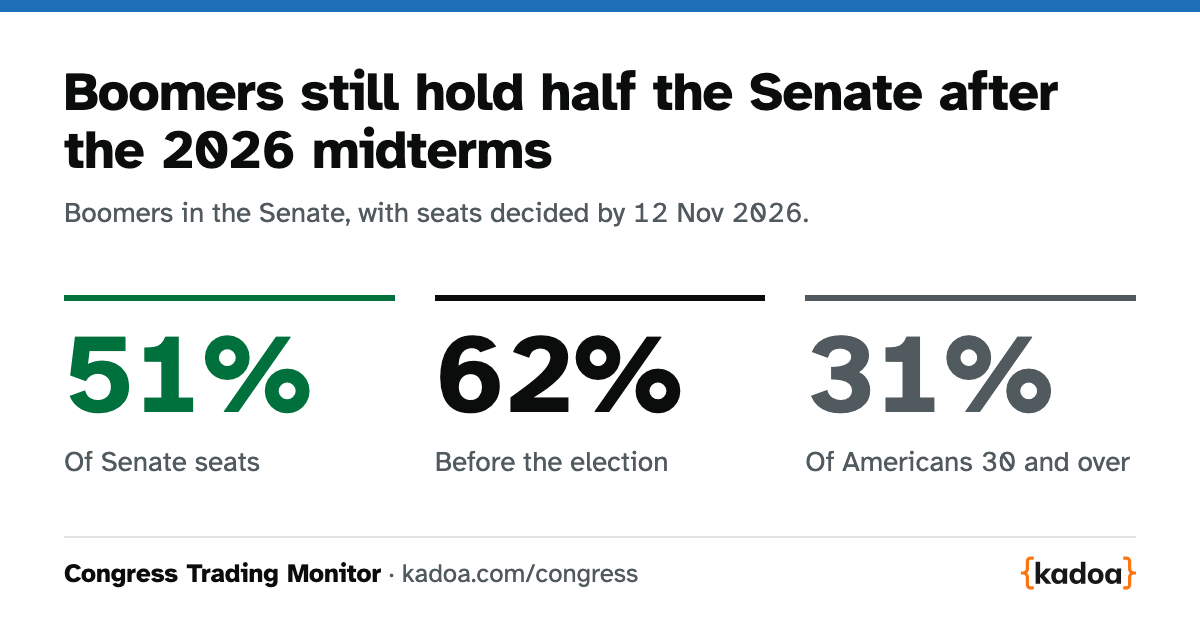
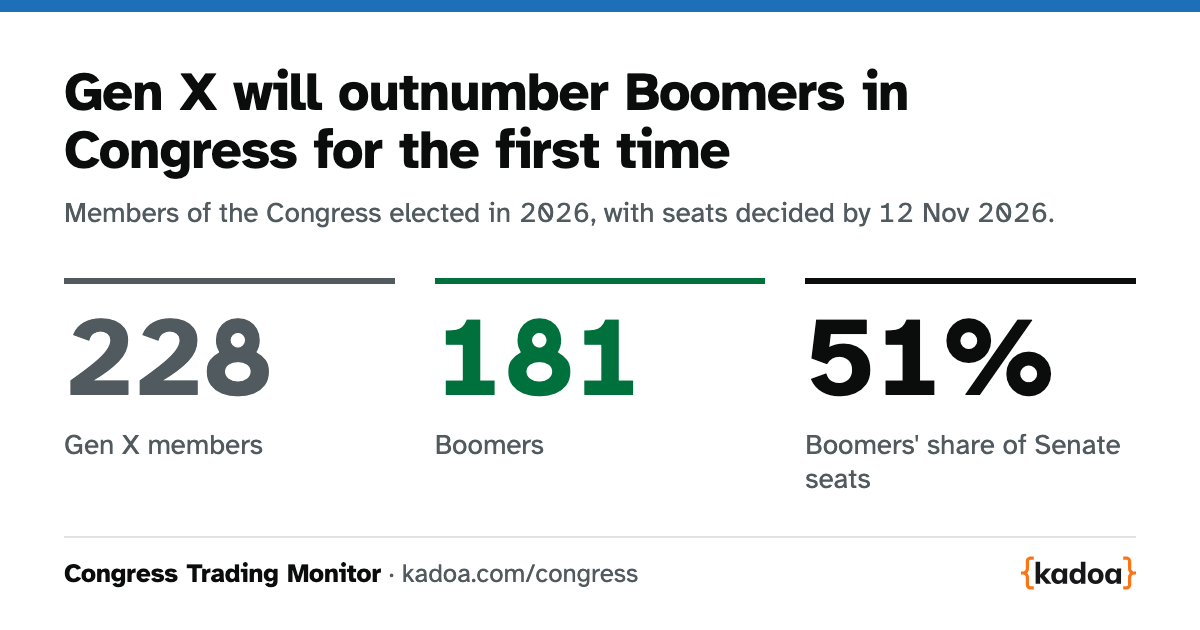
generations insight: every Congress since 1945 by chamber, the new Congress by party, and the Gen X finding as the title

diff --git a/src/components/CongressGenerations.jsx b/src/components/CongressGenerations.jsx
@@ -1,3 +1,4 @@
+import { useLayoutEffect, useRef, useState } from "react";
 import data from "../static/congress-generations.json";
 import { ChartCard, DataTable } from "../kit";
 import { ExtLink } from "../ui";
@@ -10,6 +11,11 @@ const MONTHS = ["Jan", "Feb", "Mar", "Apr", "May", "Jun", "Jul", "Aug", "Sep", "
 const day = (s) => { const d = new Date(`${s}T00:00:00Z`); return `${d.getUTCDate()} ${MONTHS[d.getUTCMonth()]} ${d.getUTCFullYear()}`; };
 // One colour per generation: the seats bar solid, the people bar the same colour at a third of its strength.
 const COLOUR = { Silent: "#6f777b", Boomers: "#009E73", "Gen X": "#CC79A7", Millennials: "#D55E00", "Gen Z": "#0072B2" };
+// The generations that have left Congress, in lighter greys, oldest lightest.
+const PAST = { "Before 1883": "#d3d6d9", Lost: "#b9bec2", Greatest: "#9aa1a6" };
+// Darker shades of the line colours for the names, which need more contrast on white than a line does.
+const TEXT = { Silent: "#505a5f", Boomers: "#007a59", "Gen X": "#a8507f", Millennials: "#b34f00", "Gen Z": "#005a8c" };
+const LIVING = Object.keys(COLOUR);
 // The longest bar is two thirds of the track, so a share of 65% fills it.
 const MAX = 65;
 const pct = (v) => (v > 0 && v < 0.5 ? "<1%" : `${Math.round(v)}%`);
@@ -55,18 +61,95 @@ function Chamber({ ch }) {
   );
 }
 
+// Each generation's share of a chamber in every Congress since 1945, one line a generation, named at its peak.
+function GenHistory({ name, share, years }) {
+  const ref = useRef(null);
+  const [w, setW] = useState(880);
+  useLayoutEffect(() => {
+    if (!ref.current) return undefined;
+    setW(ref.current.getBoundingClientRect().width);
+    const ro = new ResizeObserver((e) => setW(e[0].contentRect.width));
+    ro.observe(ref.current);
+    return () => ro.disconnect();
+  }, []);
+  const narrow = w < 560;
+  // A gutter on the left for the axis numbers and one on the right for the names of the generations still rising.
+  const H = narrow ? 320 : 380, top = 44, bottom = 30, left = 34, right = 92, TOP = 90;
+  const x = (yr) => left + ((yr - years[0]) / (years.at(-1) - years[0])) * (w - left - right);
+  const y = (v) => top + (1 - v / TOP) * (H - top - bottom);
+  const lines = Object.entries(share).map(([gen, values]) => {
+    const pts = values.map((v, i) => ({ v, yr: years[i] })).filter((p) => p.v > 0);
+    if (!pts.length) return null;
+    const peak = pts.reduce((a, b) => (b.v > a.v ? b : a));
+    return { gen, pts, peak, colour: COLOUR[gen] ?? PAST[gen], main: gen === "Boomers" || gen === "Gen X" };
+  }).filter(Boolean);
+  const last = years.length - 1;
+  return (
+    <div ref={ref} className="genline">
+      <svg width={w} height={H} role="img" aria-label={`${name}: each generation's share of members in every Congress from ${years[0]} to ${years[last]}. In ${years[last]}: ${LIVING.map((g) => `${g} ${pct(share[g][last])}`).join(", ")}.`}>
+        {[0, 25, 50, 75].map((t) => (
+          <g key={t}>
+            <line x1={left} x2={w - right} y1={y(t)} y2={y(t)} stroke={t ? "#e3e5e7" : "#0b0c0c"} />
+            <text x={left - 8} y={y(t) + 5} textAnchor="end" className="genline__tick">{t}</text>
+          </g>
+        ))}
+        <text x={0} y={16} className="genline__title">Share of members, %</text>
+        {years.filter((yr) => yr % (narrow ? 20 : 10) === 1).map((yr) => (
+          <text key={yr} x={x(yr - 1)} y={H - 8} textAnchor="middle" className="genline__tick">{yr - 1}</text>
+        ))}
+        {lines.map((l) => <path key={l.gen} d={l.pts.map((p, i) => `${i ? "L" : "M"}${x(p.yr).toFixed(1)},${y(p.v).toFixed(1)}`).join("")} fill="none" stroke={l.colour} strokeWidth={l.main ? 3 : 2} strokeLinejoin="round" />)}
+        {lines.filter((l) => l.peak.v >= 5).map((l) => {
+          // A generation still rising is named beside the end of its line; the others above their peak.
+          const end = l.peak.yr === years[last], start = l.peak.yr <= years[0] + 4;
+          // On a narrow chart a late peak's name runs right, into the gutter, to stay clear of the name before it.
+          const late = narrow && l.peak.yr > years[last] - 20;
+          const at = end ? { x: x(l.peak.yr) + 8, y: y(l.peak.v) + 5, textAnchor: "start" } : { x: x(l.peak.yr) + (start ? 6 : 0), y: y(l.peak.v) - 9, textAnchor: start || late ? "start" : "middle" };
+          return <text key={l.gen} {...at} className={`genline__name${l.main ? " genline__name--main" : ""}`} fill={TEXT[l.gen] ?? "#505a5f"}>{l.gen === "Before 1883" ? (narrow ? "Pre-1883" : "Born before 1883") : l.gen}</text>;
+        })}
+      </svg>
+    </div>
+  );
+}
+
+// The new Congress by party: each generation's seats as parts of one bar a group.
+function PartyBars({ rows }) {
+  return (
+    <div className="genparty">
+      <div className="genparty__key" aria-hidden="true">{LIVING.map((g) => <span key={g}><i style={{ background: COLOUR[g] }} />{g}</span>)}</div>
+      {rows.map((r) => (
+        <div className="genparty__row" key={r.label} role="img" aria-label={`${r.label}: ${LIVING.filter((g) => r.seats[g]).map((g) => `${g} ${r.seats[g]}`).join(", ")}`}>
+          <span className="genparty__label"><strong>{r.label}</strong><span className="gen__note">{r.total} seats</span></span>
+          <span className="genparty__bar" aria-hidden="true">
+            {LIVING.filter((g) => r.seats[g]).map((g) => {
+              const share = (100 * r.seats[g]) / r.total;
+              return <i key={g} style={{ width: `${share}%`, background: COLOUR[g] }}>{share >= 12 ? `${Math.round(share)}%` : ""}</i>;
+            })}
+          </span>
+        </div>
+      ))}
+    </div>
+  );
+}
+
 export default function CongressGenerations() {
-  const { asOf, chambers } = data;
+  const { asOf, chambers, history } = data;
+  const { years } = history;
+  // The first Congress in which Gen X held a larger share of a chamber than Boomers, if any.
+  const passed = (key) => years.find((_, i) => history.chambers[key].share["Gen X"][i] > history.chambers[key].share.Boomers[i]);
+  const peak = (key, gen) => { const s = history.chambers[key].share[gen], top = Math.max(...s); return { share: top, year: years[s.indexOf(top)] }; };
+  const historyTable = (key) => years.map((yr, i) => ({ yr, ...Object.fromEntries(history.generations.map((g) => [g.name, history.chambers[key].share[g.name][i]])) })).reverse();
+  const partyRows = chambers.flatMap((ch) => Object.entries(history.chambers[ch.key].parties).map(([p, seats]) => ({ label: `${ch.name} ${p}`, seats, total: Object.values(seats).reduce((a, b) => a + b, 0) })));
+  const both = history.congress;
   const [senate, house] = chambers;
   const of = (ch, key) => ch.rows.find((r) => r.key === key);
-  const boomers = of(senate, "Boomers"), millennials = of(senate, "Millennials");
+  const boomers = of(senate, "Boomers");
   const table = chambers.flatMap((ch) => ch.rows.map((r) => ({ ...r, chamber: ch.name, id: `${ch.key}-${r.key}`, eligible: r.population > 0 })));
   return (
     <>
-      <h1 className="dk-h1">Boomers still hold half the Senate after the 2026 midterms</h1>
+      <h1 className="dk-h1">Gen X will outnumber Boomers in Congress for the first time</h1>
       <p className="govuk-body-l">
-        Boomers are {pct(boomers.population)} of Americans aged {senate.minAge} and over and hold {pct(boomers.share)} of Senate seats, down from{" "}
-        {pct(boomers.shareBefore)} before the election. Millennials are {pct(millennials.population)} and hold {pct(millennials.share)}.
+        The Congress elected in November 2026 has {both.latest["Gen X"]} Gen X members and {both.latest.Boomers} Boomers. Boomers still hold{" "}
+        {pct(boomers.share)} of Senate seats, down from {pct(boomers.shareBefore)}, and are {pct(boomers.population)} of Americans aged {senate.minAge} and over.
       </p>
       <ChartCard
         id="generations-title"
@@ -96,6 +179,58 @@ export default function CongressGenerations() {
           { label: "Download", content: <><p className="govuk-body">Both chambers as a CSV: seats now and before the election, share of decided seats and share of Americans old enough to serve, by generation.</p><button type="button" className="govuk-button govuk-button--secondary" onClick={() => download(chambers)}>Download CSV</button></> },
         ]}
       />
+      {chambers.map((ch) => {
+        const b = peak(ch.key, "Boomers"), since = passed(ch.key);
+        return (
+          <ChartCard
+            key={ch.key}
+            id={`history-${ch.key}`}
+            title={`Generations in the ${ch.name} since 1945`}
+            description={`Boomers peaked at ${pct(b.share)} of the ${ch.name} in ${b.year}. ${since ? `Gen X has outnumbered them there since ${since}.` : "They are still its largest generation."}`}
+            date={`Congresses starting ${years[0]} to ${years.at(-1)}`}
+            tabs={[
+              { label: "Chart", content: <GenHistory name={ch.name} share={history.chambers[ch.key].share} years={years} /> },
+              {
+                label: "Tabular data", short: "Tabular", scroll: true,
+                content: (
+                  <DataTable
+                    rows={historyTable(ch.key)}
+                    rowKey={(r) => r.yr}
+                    columns={[
+                      { key: "yr", header: "Congress starting", render: (r) => <strong>{r.yr}</strong> },
+                      ...history.generations.filter((g) => g.name !== "Before 1883").map((g) => ({ key: g.name, header: g.name, align: "right", render: (r) => (r[g.name] ? pct(r[g.name]) : "–") })),
+                    ]}
+                  />
+                ),
+              },
+            ]}
+          />
+        );
+      })}
+      <div className="chart-fit">
+      <ChartCard
+        id="party-title"
+        title="Generations by party in the new Congress"
+        description="Decided seats. Independents are left out."
+        tabs={[
+          { label: "Chart", content: <PartyBars rows={partyRows} /> },
+          {
+            label: "Tabular data", short: "Tabular", scroll: true,
+            content: (
+              <DataTable
+                rows={partyRows}
+                rowKey={(r) => r.label}
+                columns={[
+                  { key: "label", header: "Group", render: (r) => <strong>{r.label}</strong> },
+                  ...LIVING.map((g) => ({ key: g, header: g, align: "right", render: (r) => r.seats[g] ?? 0 })),
+                  { key: "total", header: "Seats", align: "right" },
+                ]}
+              />
+            ),
+          },
+        ]}
+      />
+      </div>
       <ChartCard id="age-title" title="The new members are younger" description="Median age on 3 January 2027, when the new Congress starts.">
         <DataTable
           rows={chambers}
@@ -120,6 +255,7 @@ export default function CongressGenerations() {
           <li>The population is all US residents old enough to serve, {senate.minAge} for the Senate and {house.minAge} for the House, as of July 2025. It is not limited to citizens.</li>
           <li>A few new members&apos; birth years are listed as one of two years. We use the earlier.</li>
           <li>Age is the year the new Congress starts less the birth year.</li>
+          <li>The charts since 1945 count everyone who served in a Congress, even for part of it, so a seat that changed hands counts twice. The Lost generation was born 1883 to 1900 and the Greatest 1901 to 1927.</li>
         </ul>
       </section>
     </>

diff --git a/src/insights.js b/src/insights.js
@@ -3,10 +3,10 @@
 export const INSIGHTS = [
   {
     slug: "congress-generations",
-    title: "Boomers still hold half the Senate after the 2026 midterms",
-    summary: "Boomers are 31% of Americans aged 30 and over and hold 51% of decided Senate seats, down from 62%. Millennials are 33% and hold 8%.",
+    title: "Gen X will outnumber Boomers in Congress for the first time",
+    summary: "The Congress elected in November 2026 has 228 Gen X members and 181 Boomers. Boomers still hold 51% of decided Senate seats, down from 62%.",
     seoTitle: "Generations in Congress After the 2026 Midterms: Boomers, Gen X, Millennials, Gen Z",
-    seoDescription: "Each generation's share of Senate and House seats after the 2026 midterms, against its share of Americans old enough to serve. Boomers hold 51% of decided Senate seats, down from 62%.",
+    seoDescription: "Gen X outnumbers Boomers in the Congress elected in 2026, 228 to 181. Each generation's share of Senate and House seats since 1945, by party, and against Americans old enough to serve.",
   },
   {
     slug: "trump-trades",
@@ -45,5 +45,5 @@ export const insightBySlug = (slug) => INSIGHTS.find((i) => i.slug === slug);
 // characters with the number first, so it fits a phone in one or two lines.
 export const ANNOUNCED = {
   slug: "congress-generations",
-  text: "Boomers still hold half the Senate after the midterms",
+  text: "Gen X will outnumber Boomers in Congress for the first time",
 };

diff --git a/src/index.css b/src/index.css
@@ -294,3 +294,13 @@ a.ct-chip:hover{text-decoration:underline}
   .gen__name,.gen__bars{grid-column:1/-1}.gen__row--head .gen__bars{display:none}
   .gen__row--head .gen__num{font-size:14px;white-space:normal;line-height:1.2}
 }
+
+/* Generations insight: the lines since 1945 and the party bars. */
+.genline{width:100%}.genline svg{display:block;overflow:visible}
+.genline__tick{font-size:16px;fill:#505a5f}.genline__title{font-size:16px;font-weight:700;fill:#0b0c0c}.genline__name{font-size:16px;paint-order:stroke;stroke:#fff;stroke-width:4px;stroke-linejoin:round}.genline__name--main{font-weight:700}
+.genparty{font-size:16px}.genparty__key{display:flex;flex-wrap:wrap;gap:6px 18px;margin:0 0 16px;color:#505a5f}
+.genparty__key i{display:inline-block;width:12px;height:12px;margin-right:6px}
+.genparty__row{display:grid;grid-template-columns:minmax(0,190px) minmax(0,1fr);gap:4px 15px;align-items:center;padding:10px 0;border-top:1px solid #d5d9dc}
+.genparty__label strong{display:block}
+.genparty__bar{display:flex;height:28px}.genparty__bar i{display:flex;align-items:center;justify-content:center;font-style:normal;font-weight:700;color:#0b0c0c;overflow:hidden;min-width:2px}
+@media (max-width:640px){.genparty__row{grid-template-columns:minmax(0,1fr)}}
